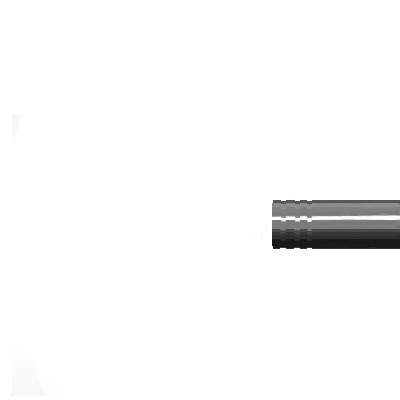
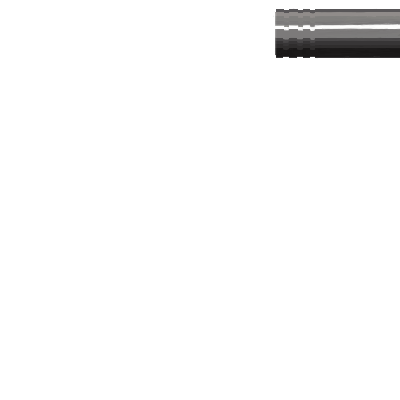
6/2

Changed region(s): [[0.66, 0.48, 1.0, 0.63], [0.69, 0.0, 1.0, 0.15]]

diff --git a/music_starter.js b/music_starter.js
@@ -1,22 +1,20 @@
 let firstRun = true
 let armImg;
-let penImg;
-
-
+let rightpenImg;
+let leftpenImg;
 //vocal, drum, bass, and other are volumes ranging from 0 to 100
-function draw_one_frame(words, vocal, drum, bass, other, counter) {
-  
+function draw_one_frame(words, vocal, drum, bass, other, counter) { 
   
 if(firstRun){
   rectMode(CENTER);
   armImg = loadImage("arm.png")
-  penImg = loadImage("pen.png")
+  rightpenImg = loadImage("pen.png")
+  leftpenImg = loadImage("leftpen.png")
 
   firstRun = false
   }
   
 background(0)
-
 
 let armMovement =map(counter,0,4,-800,-60)
 
@@ -29,103 +27,77 @@ image(armImg,125,-60)
 }
 
 
-
-
 var Colourbass =map(bass,0,100,0,255)
 var Colourdrum =map(drum,0,100,0,255)
 var Colourother =map(other,0,100,0,255)
 
 
+
+
+
+for(var j=0;j<=5;j++){
+    let linesetStep=j*78
+////////////////////////////////////////////////////////////////////left side
+var lineStart = 0
 var lineWidthsmall =map(other,0,100,10,60)
-var lineStart = 0
-var lineEndsmall= lineStart+lineWidthsmall
-
-for(var i =1; i<= 49; i++){
-var lineStep = i*10
-//stroke(Colourbass,Colourdrum,Colourother)
-stroke(255)
-strokeWeight(4)
-line(lineStart,lineStep, lineEndsmall, lineStep )
-}
-
 var lineWidthmiddle =map(drum,0,100,50,100)
-var lineStart = 0
-var lineEndmiddle= lineStart+lineWidthmiddle
-
-for(var i =1; i<= 24; i++){
-var lineStep = i*20
-//stroke(Colourother,Colourdrum,Colourbass)
-stroke(255)
-strokeWeight(4)
-line(lineStart,lineStep, lineEndmiddle, lineStep )
-}
-
 var lineWidthlarge =map(bass,0,100,75,150)
-var lineStart = 0
+var lineEndsmall= lineStart+lineWidthsmall
+var lineEndmiddle= lineStart+lineWidthmiddle
 var lineEndlarge= lineStart+lineWidthlarge
 
-for(var i =1; i<= 20; i++){
-var lineStep = i*30
-//stroke(Colourdrum,Colourbass,Colourother)
-stroke(255)
+
+for(var i =1; i<= 2; i++){
+  let lineStepsmall = i*38-25
+  let lineStepmiddle = i*21
 strokeWeight(4)
-line(lineStart,lineStep, lineEndlarge, lineStep )
-}
-
-if(counter>=0){
-
-
-for(var ii =1; ii<= 5; ii++){
-var rightpenStep=ii*70
-
-var lineWidthrightsmall =map(other,0,100,10,60)
-var lineStartright = 800
-var lineEndrightsmall= lineStartright-lineWidthrightsmall
-
-for(var i =1; i<= 5; i++){
-var lineStep = i*11
 stroke(Colourbass,Colourdrum,Colourother)
-strokeWeight(4)
-line(lineStartright,lineStep, lineEndrightsmall, lineStep)
+line(lineStart,lineStepsmall+linesetStep, lineEndsmall, lineStepsmall+linesetStep)
+stroke(Colourother,Colourdrum,Colourbass)
+line(lineStart,lineStepmiddle+linesetStep, lineEndmiddle, lineStepmiddle+linesetStep)
 }
-
-var lineWidthrightmiddle =map(drum,0,100,50,100)
-var lineStartright = 800
-var lineEndrightmiddle= lineStartright-lineWidthrightmiddle
-  
-  for(var i =1; i<= 2; i++){
-  var lineStep = i*22
-  stroke(Colourother,Colourdrum,Colourbass)
-  strokeWeight(4)
-  line(lineStartright,lineStep, lineEndrightmiddle, lineStep )
-  }
-
-var lineWidthrightlarge =map(bass,0,100,75,150)
-var lineStartright= 800
-var lineEndrightlarge= lineStartright-lineWidthrightlarge
 
 for(var i =1; i<= 1; i++){
-  var lineStep = i*33
+var lineSteplarge = i*32
+stroke(Colourdrum,Colourbass,Colourother)
+strokeWeight(4)
+line(lineStart,lineSteplarge+linesetStep, lineEndlarge, lineSteplarge+linesetStep)
+}
+
+image(leftpenImg,-100,linesetStep)
+//////////////////////////////////////////////////////////////////////////////////// right side
+var lineStartright = 800
+var lineWidthrightsmall =map(other,0,100,10,60)
+var lineWidthrightmiddle =map(drum,0,100,50,110)
+var lineWidthrightlarge =map(bass,0,100,75,150)
+var lineEndrightsmall= lineStartright-lineWidthrightsmall
+var lineEndrightmiddle= lineStartright-lineWidthrightmiddle
+var lineEndrightlarge= lineStartright-lineWidthrightlarge
+
+for(var i =1;i<=2; i++){
+let lineStepsmall = i*38-25
+let lineStepmiddle = i*21
+strokeWeight(4)
+stroke(Colourbass,Colourdrum,Colourother)
+line(lineStartright,lineStepsmall+linesetStep, lineEndrightsmall, lineStepsmall+linesetStep)
+stroke(Colourother,Colourdrum,Colourbass)
+line(lineStartright,lineStepmiddle+linesetStep, lineEndrightmiddle, lineStepmiddle+linesetStep)
+}  
+
+for(var i =1; i<= 1; i++){
+  let lineSteplarge = i*32
   stroke(Colourdrum,Colourbass,Colourother)
   strokeWeight(4)
-  line(lineStartright,lineStep, lineEndrightlarge, lineStep )
+  line(lineStartright,lineSteplarge+linesetStep, lineEndrightlarge, lineSteplarge+linesetStep )
   }
-  
-  
- for(var i=1; i<=10; i++){
-  var penStep=i*-194.5
-  scale(1.1)
-  image(penImg,430,penStep)
-    image(penImg,430,-134.5)
- }
 
+  image(rightpenImg,500,linesetStep)
+  
 
-  }
 }
   
 
-
-
+  
 stroke(64,145,116)
 strokeWeight(2)
   textFont('Lucida Handwriting'); // please use CSS safe fonts
@@ -138,6 +110,17 @@ strokeWeight(2)
    textAlign(CENTER);
    textSize(vocal/2);
    text(words, width/1.85, height-250);
+  
+
+
+
+
+  
+
+  
+
+
+
 
 fill(255, 255, 0); 
 let seconds = counter

diff --git a/system_runner.js b/system_runner.js
@@ -1,5 +1,5 @@
 const canvasWidth = 800;
-const canvasHeight = 500;
+const canvasHeight = 470;
 
 
 let mainCanvas;
